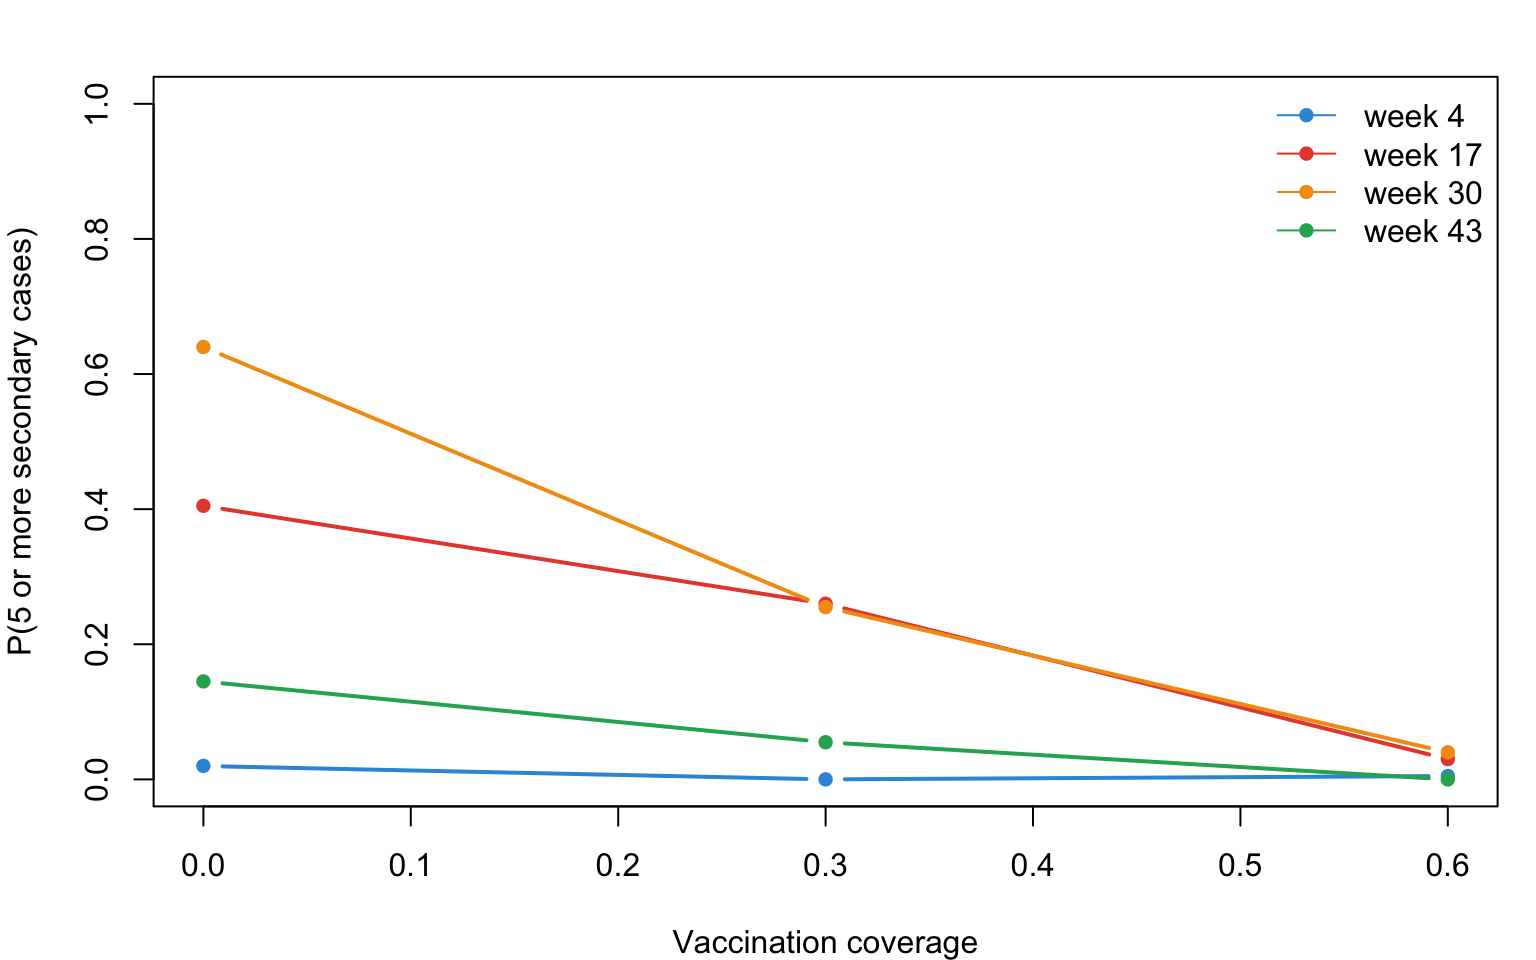
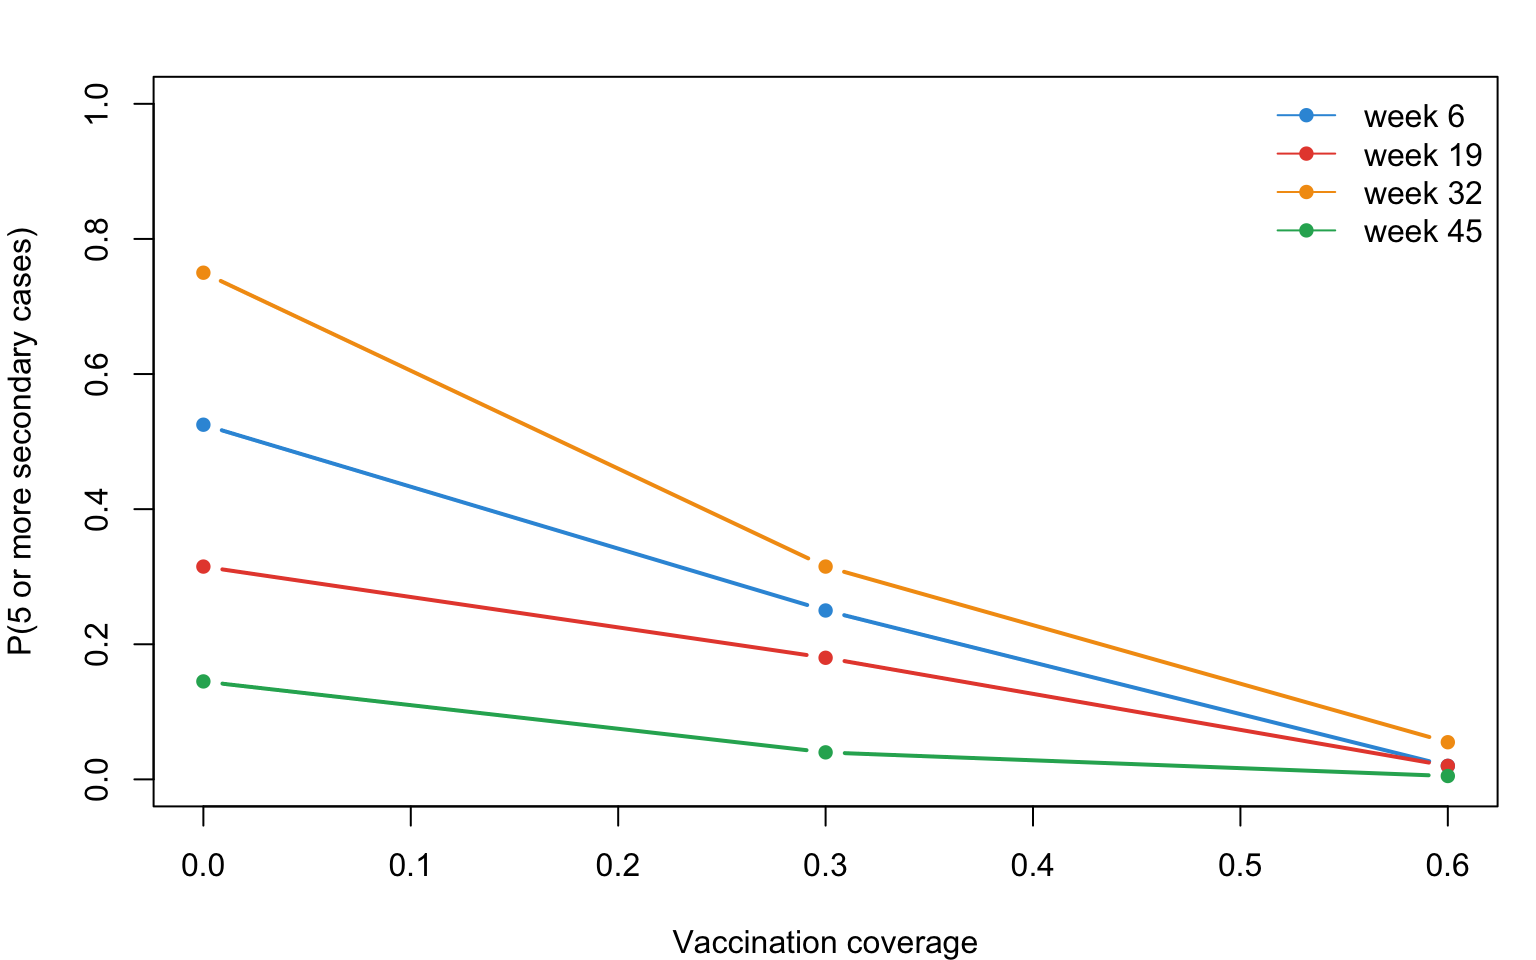
Move the rabies introductions off the anomalous weeks 3 and 4
Weeks 3 and 4 of the Reynolds et al. deposit (and the ASNR copy) record
50 and 100 pairs in contact but 0.2 and 0.3 contact hours in total, with
no contact over five minutes, against 13 to 540 hours in every other week.
The week-4 introduction sat in the second of them, so its near-zero
outbreak risk was an artifact of that week rather than an early-season
effect. The introductions are now a quarter apart starting at week 6
(6, 19, 32, 45), the page documents the two weeks and keeps them as
deposited, and a new section computes each week's expected direct
infections from the data before any simulation. The seasonal contrast
holds but is smaller than before: P(any secondary case) runs from 0.56
(spring) to 0.94 (winter).

Other fixes: seed the run; record one infector per new case in the
transmission matrix; set resimulate.network = TRUE to drop the tergmLite
warning; give model.R the sensitivity runs the page has; start the
contact plots at zero; replace the misattributed bat citation with
Webber et al. 2016 and add Hirsch et al. 2013; correct the Elmore et al.
and ASNR statements; drop the version callout, since every example now
needs 2.7.0; redraw the thumbnail.

diff --git a/examples/rabies-raccoon-network/README.md b/examples/rabies-raccoon-network/README.md
@@ -4,11 +4,10 @@
 
 A zoonotic pathogen simulated over an empirical wildlife network. Reynolds et al. (2015) fitted proximity-logging collars to raccoons in a suburban forest preserve in Illinois and recorded every close contact for a year; the data deposited with the paper are 52 weekly matrices of contact time between 24 raccoons. Every animal and every contact are observed, so there is nothing to estimate: the network enters `netsim` as it is, through `netcensus()`, and the simulation reads the contacts of week `at` at time step `at`. No `netest`, no `netdx`.
 
-The example asks the source paper's question: how much does the week of introduction matter for a rabies outbreak, and how much vaccination coverage does it take to keep one small? One infectious raccoon is introduced in one of four weeks of the year into a population with 0, 30, or 60 percent baseline oral rabies vaccination coverage, and the outcome is the number of secondary cases. Contact intensity comes from the data: the per-pair transmission probability is a constant hazard per hour of proximity, so a shared den transmits almost surely and a brief encounter rarely does.
+The example asks the source paper's question: how much does the week of introduction matter for a rabies outbreak, and how much vaccination coverage does it take to keep one small? One infectious raccoon is introduced in one of four weeks a quarter of a year apart (summer, autumn, winter, spring) into a population with 0, 30, or 60 percent baseline oral rabies vaccination coverage, and the outcome is the number of secondary cases. Contact intensity comes from the data: the per-pair transmission probability is a constant hazard per hour of proximity, so a shared den transmits almost surely and a brief encounter rarely does.
 
 The annotated tutorial is on the [Gallery website](https://epimodel.github.io/EpiModel-Gallery/examples/rabies-raccoon-network/).
 
-This example requires EpiModel 2.7.0 or later, which added `netcensus()`.
 
 ## Model Structure
 
@@ -34,6 +33,10 @@ The time step is one week, the resolution of the contact data. The observed year
 
 `raccoon_contacts.csv` holds the weekly contact matrices in long form (week, raccoon1, raccoon2, seconds), from the Animal Social Network Repository copy of the Dryad deposit. Each dyad-week becomes an edge spell in a `networkDynamic` object, and `netcensus()` wraps that object as a layer. The layer is binary; the hours of contact per pair and week go to the infection module as a parameter.
 
+Weeks 3 and 4 of the deposit record as many pairs as the weeks around them but less than half an hour of contact in total and no contact longer than five minutes, against more than ten hours in every other week. They are kept as deposited, and no introduction is placed in them.
+
+Before any simulation, the page computes from the data the expected number of raccoons one infectious raccoon infects directly in each week. It runs from below one in late spring and early summer to about three in midwinter, when raccoons den together.
+
 ### Modules
 
 - `infect`: discordant pairs from `discord_edgelist()` on the census layer, transmission with probability `1 - exp(-inf.hazard * hours)`, recorded with `set_transmat()` together with the contact hours.
@@ -47,19 +50,22 @@ The time step is one week, the resolution of the contact data. The observed year
 |-----------|-------|---------|
 | `inf.hazard` | 2 per hour | Transmission hazard per hour of proximity; median pair 0.09, one hour 0.86, shared den 1 |
 | `ei.rate` | 1/5 per week | Mean incubation of five weeks |
-| `intro.week` | 4, 17, 30, 43 | Week of introduction; the breeding season is weeks 24 to 39 |
+| `intro.week` | 6, 19, 32, 45 | Week of introduction; the breeding season is weeks 24 to 39 |
 | `vax.cov` | 0, 0.3, 0.6 | Baseline vaccination coverage |
 
 ## Key Findings
 
-An introduction in week 4, when the raccoons are in contact with many others but briefly, almost never spreads. Introductions in weeks 17 and 30, when pairs are fewer but spend hours or days together, produce the largest outbreaks: the season effect in the source paper is the long-duration associations of the breeding season and the months around it, not the number of contacts. For a week-30 introduction, 30 percent coverage roughly halves the mean number of secondary cases and the probability of a five-case outbreak, and 60 percent coverage, the seroconversion level modeling studies put as the threshold for preventing epizootics, brings that probability close to zero. Below the threshold the residual risk is structural: one unvaccinated den-mate of the introduced animal is enough for a chain to start. Most transmissions occur over pairs with at least an hour of contact in the week, although such pairs are a small share of all pair-weeks.
+The chance that an introduction causes any secondary case follows the transmission potential of its week: 94 percent for a winter introduction (week 32) against 56 percent in spring (week 45). Chains started in summer, autumn, or winter run into the winter weeks of long contacts and average about seven secondary cases when they start; chains started in spring average about four. This is the seasonal effect of the source paper, and Hirsch et al. (2016) attribute it in this population to contact duration raised by winter co-denning. For a winter introduction, 30 percent coverage cuts the probability of five or more secondary cases from 0.75 to 0.32 and 60 percent to 0.06. Sixty percent of transmissions occur over pairs with at least an hour of contact in the week, although such pairs are 16 percent of pair-weeks.
 
 ## References
 
 - Reynolds JJH, Hirsch BT, Gehrt SD, Craft ME. Raccoon contact networks predict seasonal susceptibility to rabies outbreaks and limitations of vaccination. *Journal of Animal Ecology*. 2015;84(6):1720-1731. <https://doi.org/10.1111/1365-2656.12422>. Data: <https://doi.org/10.5061/dryad.gr40r>.
-- Sah P, Mendez JD, Bansal S. A multi-species repository of social networks. *Scientific Data*. 2019;6:44. <https://doi.org/10.1038/s41597-019-0056-z>.
+- Sah P, Méndez JD, Bansal S. A multi-species repository of social networks. *Scientific Data*. 2019;6:44. <https://doi.org/10.1038/s41597-019-0056-z>.
+- Hirsch BT, Prange S, Hauver SA, Gehrt SD. Raccoon social networks and the potential for disease transmission. *PLoS ONE*. 2013;8(10):e75830. <https://doi.org/10.1371/journal.pone.0075830>.
+- Hirsch BT, Reynolds JJH, Gehrt SD, Craft ME. Which mechanisms drive seasonal rabies outbreaks in raccoons? A test using dynamic social network models. *Journal of Applied Ecology*. 2016;53(3):804-813. <https://doi.org/10.1111/1365-2664.12628>.
 - Elmore SA, Chipman RB, Slate D, Huyvaert KP, VerCauteren KC, Gilbert AT. Management and modeling approaches for controlling raccoon rabies: The road to elimination. *PLoS Neglected Tropical Diseases*. 2017;11(3):e0005249. <https://doi.org/10.1371/journal.pntd.0005249>.
 - Farine DR, Whitehead H. Constructing, conducting and interpreting animal social network analysis. *Journal of Animal Ecology*. 2015;84(5):1144-1163. <https://doi.org/10.1111/1365-2656.12418>.
+- Webber QMR, Brigham RM, Park AD, Gillam EH, O'Shea TJ, Willis CKR. Social network characteristics and predicted pathogen transmission in summer colonies of female big brown bats (*Eptesicus fuscus*). *Behavioral Ecology and Sociobiology*. 2016;70(5):701-712. <https://doi.org/10.1007/s00265-016-2093-3>.
 
 The rabies parameters are illustrative choices within published ranges and are not calibrated to surveillance data.
 
